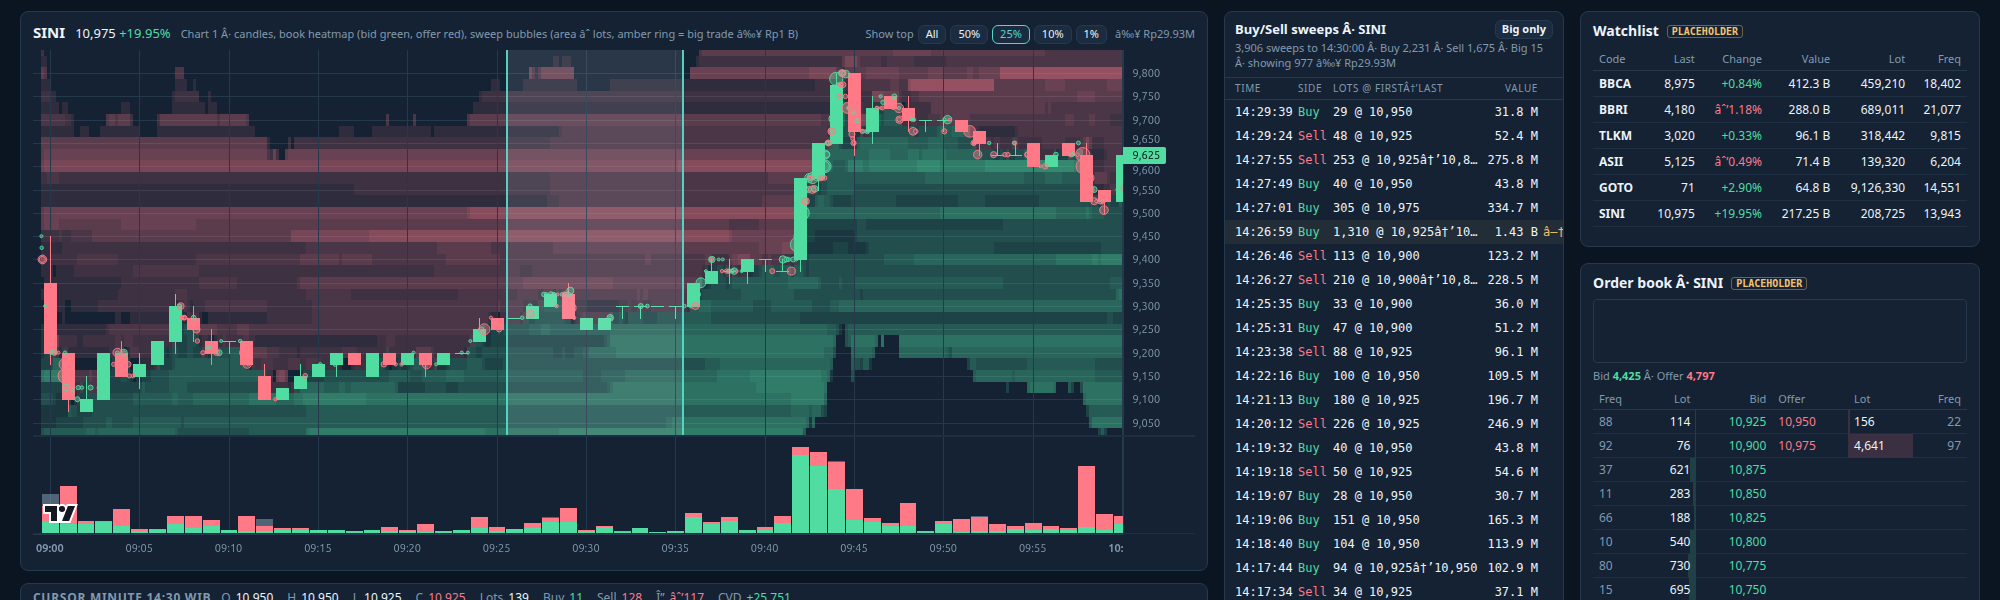
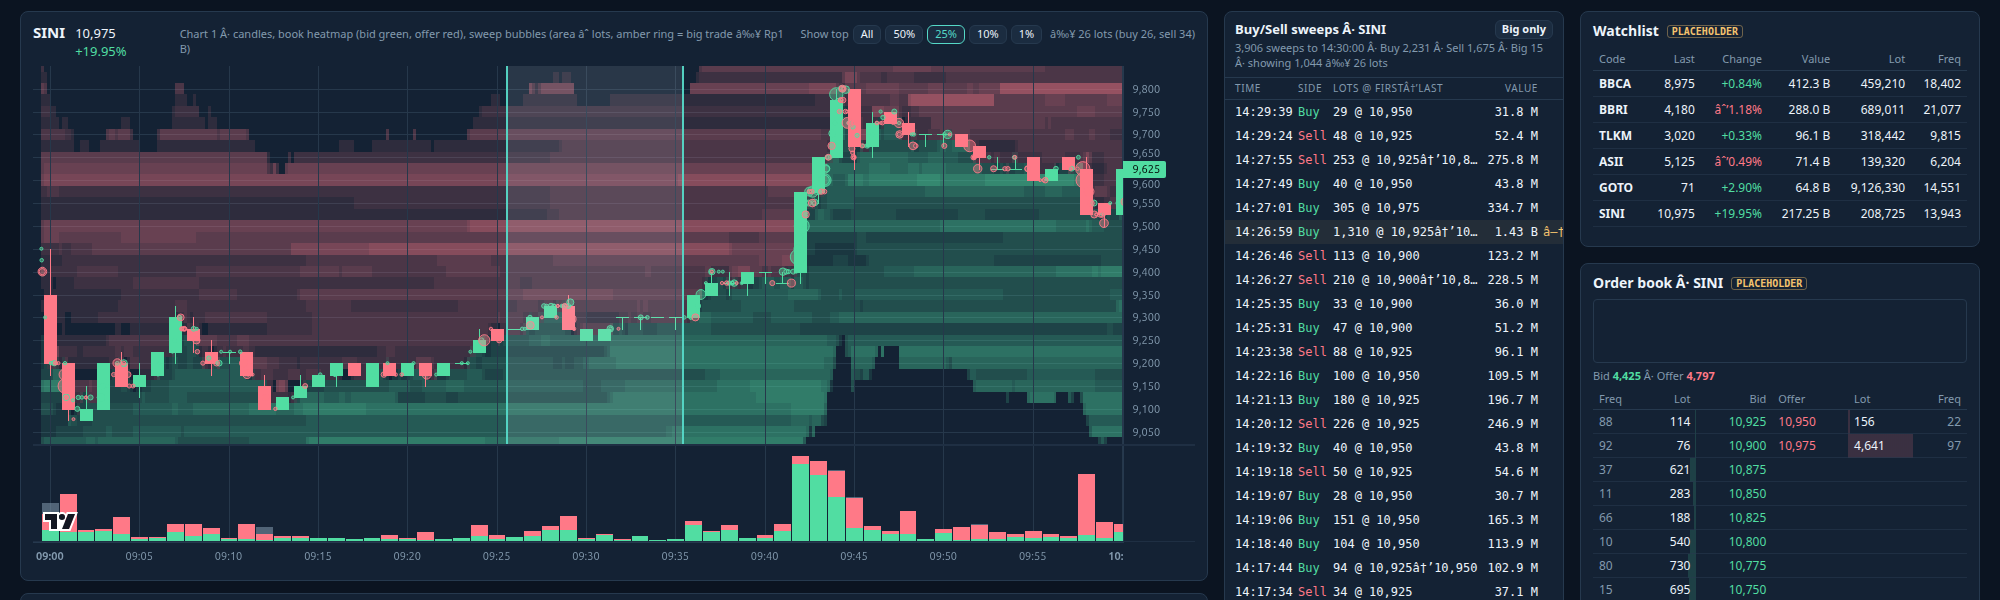
Prototype: filter sweeps by the lower of the buy and sell lot cuts (throwaway)

diff --git a/apps/dashboard/prototype-order-flow-layout/index.html b/apps/dashboard/prototype-order-flow-layout/index.html
@@ -129,7 +129,7 @@
 <div id="parts" hidden>
   <section class="card chartbox" id="box1">
     <header><h2>SINI</h2><span class="num" id="last"></span><span class="legend">Chart 1 · candles, book heatmap (bid green, offer red), sweep bubbles (area ∝ lots, amber ring = big trade ≥ Rp1 B)</span>
-      <span class="noise" title="Hide small sweeps: keep the largest N% of this code's sweeps by value, up to the cursor">Show top <button data-top="100">All</button><button data-top="50">50%</button><button data-top="25" class="on">25%</button><button data-top="10">10%</button><button data-top="1">1%</button><span id="noiseMin"></span></span></header>
+      <span class="noise" title="Hide small sweeps: the lot count at the top N% mark of buy sweeps and of sell sweeps so far today; the lower of the two is the threshold">Show top <button data-top="100">All</button><button data-top="50">50%</button><button data-top="25" class="on">25%</button><button data-top="10">10%</button><button data-top="1">1%</button><span id="noiseMin"></span></span></header>
     <div id="c1"></div>
   </section>
   <section class="card chartbox" id="box2">
@@ -254,17 +254,19 @@ let cursor = (() => { const [h, m] = initCursorHM.split(":").map(Number); return
 let cursorMinute = Math.floor(cursor / MIN) * MIN;
 let selectedId = null;
 let bigOnly = false;
-// Noise filter (owner's call, 2026-11-13): bubbles and the log keep only the largest topPct% of
-// the code's sweeps by value, counted over the sweeps up to the cursor, so every code gets a
-// similar density whatever its price. minValue is that percentile's value.
-let topPct = 25, minValue = 0;
+// Noise filter (owner's call, 2026-11-13): a lot threshold over the day so far. For buy sweeps
+// and sell sweeps separately, the lot count at the top topPct% mark of that side's sweeps up to
+// the cursor; the lower of the two is the one threshold for both sides, so a day dominated by one
+// side never hides the other side's meaningful sweeps. Bubbles and the log hide sweeps below it.
+let topPct = 25, minLots = 0, sideCut = { buy: 0, sell: 0 };
+const cutAt = (lots, pct) => { lots.sort((a, b) => b - a); return lots.length ? lots[Math.max(0, Math.ceil(lots.length * pct / 100) - 1)] : 0; };
 function updateThreshold() {
-  const vals = [];
-  for (const s of sweeps) if (s.time <= cursor) vals.push(s.value);
-  vals.sort((a, b) => b - a);
-  minValue = topPct >= 100 || !vals.length ? 0 : vals[Math.max(0, Math.ceil(vals.length * topPct / 100) - 1)];
+  const buy = [], sell = [];
+  for (const s of sweeps) if (s.time <= cursor) (s.side === "sell" ? sell : buy).push(s.lots);
+  sideCut = { buy: cutAt(buy, topPct), sell: cutAt(sell, topPct) };
+  minLots = topPct >= 100 ? 0 : Math.min(...[sideCut.buy, sideCut.sell].filter((_, k) => (k ? sell : buy).length)) || 0;
   const el = document.getElementById("noiseMin");
-  if (el) el.textContent = minValue ? `≥ Rp${shortLots(minValue).replace(/\.00(?=[KMB])/, "")}` : "";
+  if (el) el.textContent = minLots ? `≥ ${nf.format(minLots)} lots (buy ${nf.format(sideCut.buy)}, sell ${nf.format(sideCut.sell)})` : "";
 }
 let hoverMinute = null;
 const stats = { c1: { full: 0, top: 0, rects: 0, bubbles: 0 }, c2: { full: 0, top: 0, texts: 0, mode: "" } };
@@ -382,7 +384,7 @@ class Bubbles {
       const cx = ts.timeToCoordinate(m / 1000);
       if (cx === null) continue;
       for (const s of list) {
-        if (s.time > cursor || s.value < minValue) continue;
+        if (s.time > cursor || s.lots < minLots) continue;
         const y = series.priceToCoordinate(s.price);
         if (y === null) continue;
         const x = this.xOf(s, cx, bs) * hpr, yy = y * vpr, r = radius(s.lots) * hpr;
@@ -419,7 +421,7 @@ class Bubbles {
       if (!list) continue;
       const cx = ts.timeToCoordinate(minutes[i] / 1000);
       for (const s of list) {
-        if (s.time > cursor || s.value < minValue) continue;
+        if (s.time > cursor || s.lots < minLots) continue;
         const sy = series.priceToCoordinate(s.price);
         const d = Math.hypot(this.xOf(s, cx, bs) - x, sy - y);
         if (d <= radius(s.lots) + 2 && d < bestD) { best = s; bestD = d; }
@@ -880,9 +882,9 @@ function rebuildLog() {
     if (s.time > cursor) continue;
     if (s.side === "buy") buys++; else sells++;
     if (s.big) bigs++;
-    if ((!bigOnly || s.big) && s.value >= minValue) logRows.push(s);
+    if ((!bigOnly || s.big) && s.lots >= minLots) logRows.push(s);
   }
-  $("logCounts").textContent = `${nf.format(buys + sells)} sweeps to ${wib(cursor)} · Buy ${nf.format(buys)} · Sell ${nf.format(sells)} · Big ${bigs}${minValue ? ` · showing ${nf.format(logRows.length)} ≥ Rp${shortLots(minValue).replace(/\.00(?=[KMB])/, "")}` : ""}`;
+  $("logCounts").textContent = `${nf.format(buys + sells)} sweeps to ${wib(cursor)} · Buy ${nf.format(buys)} · Sell ${nf.format(sells)} · Big ${bigs}${minLots ? ` · showing ${nf.format(logRows.length)} ≥ ${nf.format(minLots)} lots` : ""}`;
   spacer.style.height = logRows.length * ROW + "px";
   renderLog();
 }
